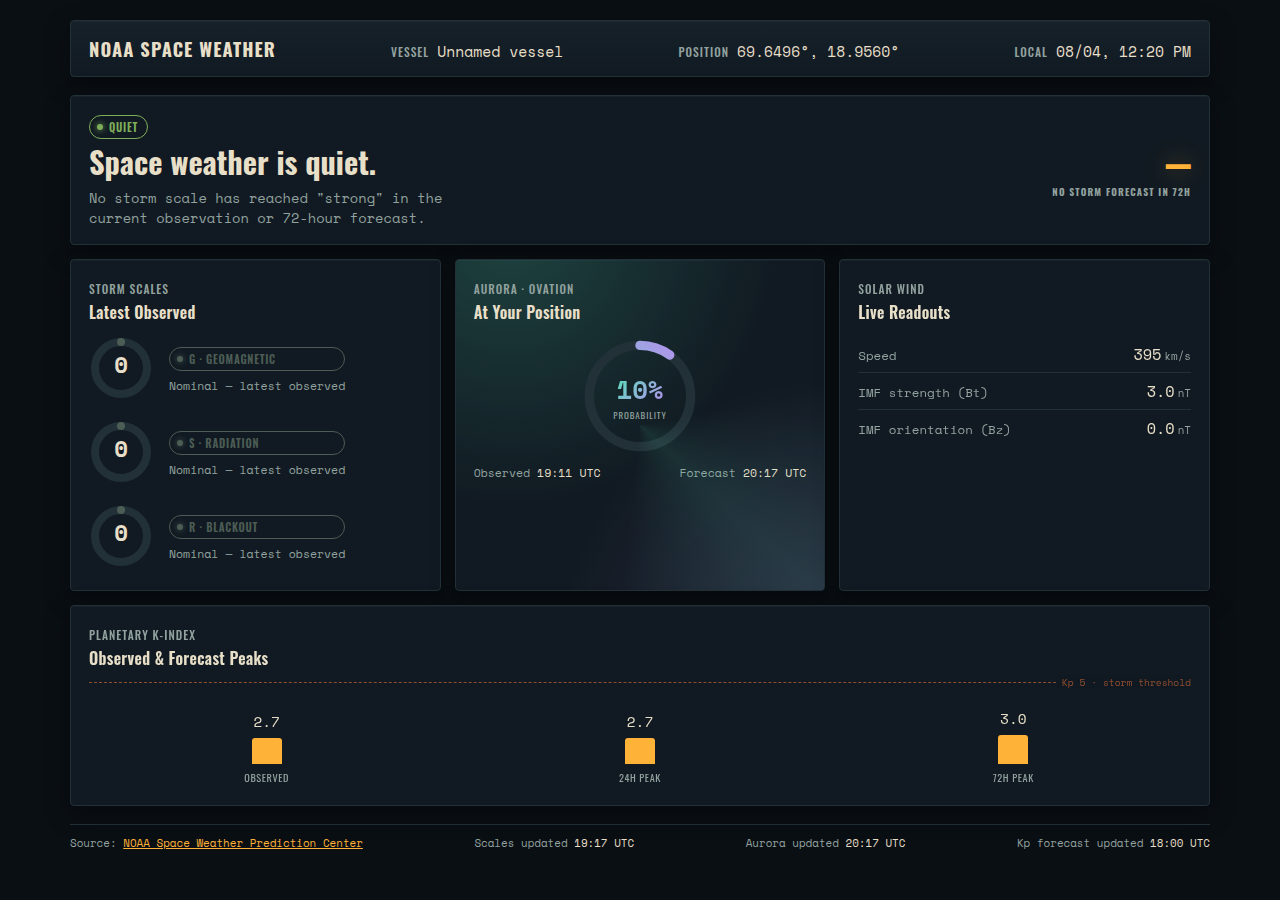
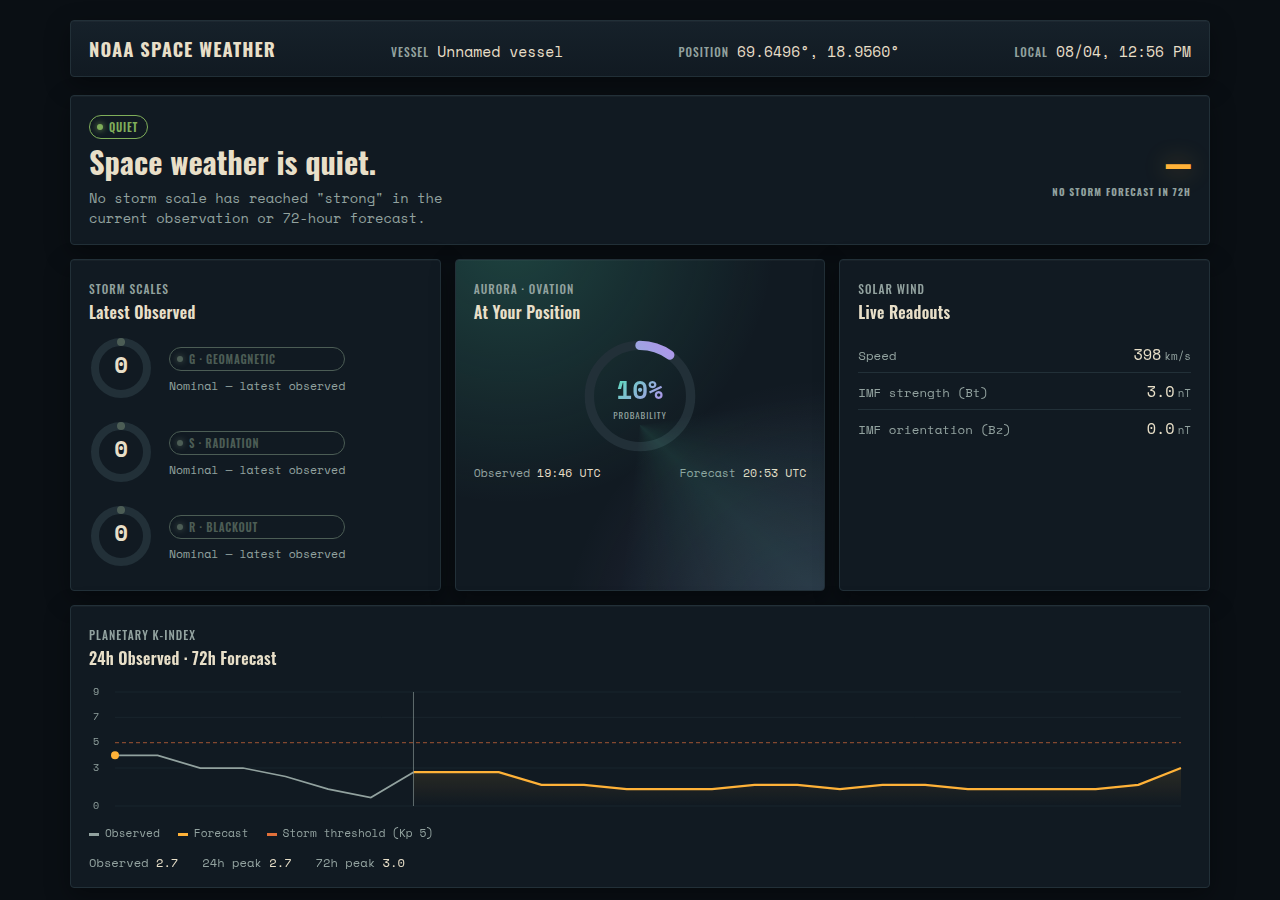
Draw a real Kp timeline in the webapp, and add NOAA explainer links
Replaces the three-bar peak comparison with a canvas timeline drawn from the
new forecast.series path: observed in grey, forecast in amber, the Kp 5 storm
threshold marked, the 72h peak highlighted. Falls back to the bars if the
series hasn't arrived yet (a fresh install, or an older plugin version before
this path existed).

Also adds a 'Learn more' links row: NOAA's own explanations of the G/S/R
scales, the Kp index, the aurora dashboard, and radio/GPS impact pages.

Screenshot updated from a live run against real data.

diff --git a/public/index.html b/public/index.html
@@ -170,6 +170,15 @@
   .kp-bar .lbl { font-family: var(--font-display); font-size: 0.64rem; letter-spacing: 0.06em; text-transform: uppercase; color: var(--text-dim); }
   .kp-threshold { border-top: 1px dashed var(--sev-4); position: relative; margin: 2px 0 10px; opacity: 0.6; }
   .kp-threshold span { position: absolute; right: 0; top: -8px; font-size: 0.6rem; color: var(--sev-4); background: var(--panel); padding-left: 6px; }
+  #kpChart { display: block; width: 100%; height: 132px; }
+  .timeline-legend { display: flex; gap: 18px; margin-top: 10px; flex-wrap: wrap; font-size: 0.7rem; color: var(--text-dim); }
+  .timeline-legend .sw { display: inline-block; width: 10px; height: 3px; margin-right: 6px; vertical-align: middle; }
+  .kp-summary { display: flex; gap: 24px; margin-top: 12px; flex-wrap: wrap; font-size: 0.76rem; color: var(--text-dim); }
+  .kp-summary b { color: var(--text); font-family: var(--font-mono); font-variant-numeric: tabular-nums; font-weight: 400; }
+
+  .learn-more { display: flex; gap: 16px; flex-wrap: wrap; margin-top: 10px; font-size: 0.72rem; }
+  .learn-more a { color: var(--text-dim); text-decoration: none; border-bottom: 1px dotted var(--grid); }
+  .learn-more a:hover { color: var(--amber); border-bottom-color: var(--amber); }
 
   .footstrip {
     margin-top: 18px; display: flex; justify-content: space-between; flex-wrap: wrap; gap: 8px 20px;
@@ -255,11 +264,21 @@
 
     <div class="tile span-12">
       <span class="label">Planetary K-Index</span>
-      <h2>Observed &amp; Forecast Peaks</h2>
+      <h2>24h Observed &middot; 72h Forecast</h2>
       <div id="kpBody">
         <div class="empty-state">Waiting for data&hellip;</div>
       </div>
     </div>
+  </div>
+
+  <div class="learn-more">
+    <span class="label" style="margin-right:2px">Learn more</span>
+    <a href="https://www.spaceweather.gov/noaa-scales-explanation" target="_blank" rel="noopener">G/S/R scales explained</a>
+    <a href="https://www.swpc.noaa.gov/products/planetary-k-index" target="_blank" rel="noopener">Planetary K-index</a>
+    <a href="https://www.spaceweather.gov/communities/aurora-dashboard-experimental" target="_blank" rel="noopener">Aurora dashboard</a>
+    <a href="https://www.spaceweather.gov/communities/radio-communications" target="_blank" rel="noopener">Radio &amp; HF impacts</a>
+    <a href="https://www.spaceweather.gov/communities/global-positioning-system-gps-community-dashboard" target="_blank" rel="noopener">GPS/GNSS impacts</a>
+    <a href="https://www.spaceweather.gov/impacts" target="_blank" rel="noopener">Space weather impacts</a>
   </div>
 
   <div class="footstrip">
@@ -449,36 +468,151 @@
       <div class="readout-row"><span class="n">IMF orientation (Bz)</span><span class="v" style="color:${bzColor}">${bz !== null ? (bz * 1e9).toFixed(1) : '–'}<span class="u">nT</span></span></div>`;
   }
 
+  function drawKpTimeline(canvas, series) {
+    const dpr = window.devicePixelRatio || 1;
+    const cssW = canvas.clientWidth || 900, cssH = 132;
+    canvas.width = cssW * dpr; canvas.height = cssH * dpr;
+    const ctx = canvas.getContext('2d');
+    ctx.scale(dpr, dpr);
+    ctx.clearRect(0, 0, cssW, cssH);
+
+    const styles = getComputedStyle(document.documentElement);
+    const gridColor = styles.getPropertyValue('--grid').trim();
+    const dimColor = styles.getPropertyValue('--text-dim').trim();
+    const amber = styles.getPropertyValue('--amber').trim();
+    const sev5 = styles.getPropertyValue('--sev-5').trim();
+    const sev4 = styles.getPropertyValue('--sev-4').trim();
+
+    const padL = 26, padR = 10, padT = 10, padB = 8;
+    const plotW = cssW - padL - padR, plotH = cssH - padT - padB;
+    const maxKp = 9;
+    const n = series.length;
+    const x = (i) => padL + (n <= 1 ? 0 : (i / (n - 1)) * plotW);
+    const y = (v) => padT + plotH - (Math.min(v, maxKp) / maxKp) * plotH;
+    const nowIndex = Math.max(0, series.findIndex((p) => p.forecast) - 1);
+    const nowI = nowIndex < 0 ? n - 1 : nowIndex;
+
+    [0, 3, 5, 7, 9].forEach((v) => {
+      ctx.beginPath();
+      ctx.moveTo(padL, y(v));
+      ctx.lineTo(cssW - padR, y(v));
+      ctx.strokeStyle = v === 5 ? sev4 : gridColor;
+      ctx.globalAlpha = v === 5 ? 0.55 : 0.5;
+      ctx.lineWidth = v === 5 ? 1.25 : 1;
+      ctx.setLineDash(v === 5 ? [4, 3] : []);
+      ctx.stroke();
+      ctx.setLineDash([]);
+      ctx.globalAlpha = 1;
+      ctx.fillStyle = dimColor;
+      ctx.font = "10px 'Space Mono', monospace";
+      ctx.textBaseline = 'middle';
+      ctx.fillText(String(v), 4, y(v));
+    });
+
+    if (n === 0) return;
+
+    if (nowI < n - 1) {
+      const grad = ctx.createLinearGradient(0, padT, 0, padT + plotH);
+      grad.addColorStop(0, amber + '55');
+      grad.addColorStop(1, amber + '00');
+      ctx.beginPath();
+      ctx.moveTo(x(nowI), y(0));
+      for (let i = nowI; i < n; i++) ctx.lineTo(x(i), y(series[i].kp));
+      ctx.lineTo(x(n - 1), y(0));
+      ctx.closePath();
+      ctx.fillStyle = grad;
+      ctx.fill();
+    }
+
+    ctx.beginPath();
+    for (let i = 0; i <= nowI; i++) {
+      const px = x(i), py = y(series[i].kp);
+      i === 0 ? ctx.moveTo(px, py) : ctx.lineTo(px, py);
+    }
+    ctx.strokeStyle = dimColor;
+    ctx.lineWidth = 1.75;
+    ctx.stroke();
+
+    if (nowI < n - 1) {
+      ctx.beginPath();
+      for (let i = nowI; i < n; i++) {
+        const px = x(i), py = y(series[i].kp);
+        i === nowI ? ctx.moveTo(px, py) : ctx.lineTo(px, py);
+      }
+      ctx.strokeStyle = amber;
+      ctx.lineWidth = 2.25;
+      ctx.stroke();
+    }
+
+    ctx.beginPath();
+    ctx.moveTo(x(nowI), padT);
+    ctx.lineTo(x(nowI), padT + plotH);
+    ctx.strokeStyle = dimColor;
+    ctx.globalAlpha = 0.6;
+    ctx.lineWidth = 1;
+    ctx.stroke();
+    ctx.globalAlpha = 1;
+
+    let peakI = 0;
+    for (let i = 1; i < n; i++) if (series[i].kp > series[peakI].kp) peakI = i;
+    ctx.beginPath();
+    ctx.arc(x(peakI), y(series[peakI].kp), 4, 0, Math.PI * 2);
+    ctx.fillStyle = series[peakI].kp >= 5 ? sev5 : amber;
+    ctx.fill();
+  }
+
   function renderKp(kp) {
     const body = document.getElementById('kpBody');
     const observed = leafValue(kp?.observed);
     const max24h = leafValue(kp?.['forecast.max24h']);
     const max72h = leafValue(kp?.['forecast.max72h']);
+    const series = leafValue(kp?.['forecast.series']);
     if (observed === null && max24h === null && max72h === null) {
       body.innerHTML = '<div class="empty-state">No Kp forecast yet.</div>';
       return;
     }
-    const bars = [
-      ['Observed', observed],
-      ['24h Peak', max24h],
-      ['72h Peak', max72h]
-    ];
-    const maxKp = 9;
-    body.innerHTML = `
-      <div class="kp-threshold"><span>Kp 5 · storm threshold</span></div>
-      <div class="kp-bars">
-        ${bars.map(([label, v]) => {
-          const h = v === null ? 2 : Math.max(4, (v / maxKp) * 88);
-          const color = v === null ? 'var(--grid)' : v >= 5 ? 'var(--sev-4)' : 'var(--amber)';
-          return `<div class="kp-bar">
-            <span class="n">${v === null ? '–' : v.toFixed(1)}</span>
-            <div class="stem" style="height:${h}px;background:${color}"></div>
-            <span class="lbl">${label}</span>
-          </div>`;
-        }).join('')}
-      </div>`;
+    if (Array.isArray(series) && series.length > 0) {
+      body.innerHTML = `
+        <div class="timeline-wrap"><canvas id="kpChart"></canvas></div>
+        <div class="timeline-legend">
+          <span><span class="sw" style="background:var(--text-dim)"></span>Observed</span>
+          <span><span class="sw" style="background:var(--amber)"></span>Forecast</span>
+          <span><span class="sw" style="background:var(--sev-4)"></span>Storm threshold (Kp 5)</span>
+        </div>
+        <div class="kp-summary">
+          <span>Observed <b>${observed !== null ? observed.toFixed(1) : '–'}</b></span>
+          <span>24h peak <b>${max24h !== null ? max24h.toFixed(1) : '–'}</b></span>
+          <span>72h peak <b>${max72h !== null ? max72h.toFixed(1) : '–'}</b></span>
+        </div>`;
+      const canvas = document.getElementById('kpChart');
+      drawKpTimeline(canvas, series);
+      canvas._series = series;
+    } else {
+      // The series path may lag one cycle behind the summary fields on a
+      // fresh install; fall back to the peak comparison rather than nothing.
+      const bars = [['Observed', observed], ['24h Peak', max24h], ['72h Peak', max72h]];
+      const maxKp = 9;
+      body.innerHTML = `
+        <div class="kp-threshold"><span>Kp 5 · storm threshold</span></div>
+        <div class="kp-bars">
+          ${bars.map(([label, v]) => {
+            const h = v === null ? 2 : Math.max(4, (v / maxKp) * 88);
+            const color = v === null ? 'var(--grid)' : v >= 5 ? 'var(--sev-4)' : 'var(--amber)';
+            return `<div class="kp-bar">
+              <span class="n">${v === null ? '–' : v.toFixed(1)}</span>
+              <div class="stem" style="height:${h}px;background:${color}"></div>
+              <span class="lbl">${label}</span>
+            </div>`;
+          }).join('')}
+        </div>`;
+    }
     document.getElementById('tsKp').textContent = fmtTime(leafTime(kp?.observed));
   }
+
+  window.addEventListener('resize', () => {
+    const canvas = document.getElementById('kpChart');
+    if (canvas && canvas._series) drawKpTimeline(canvas, canvas._series);
+  });
 
   async function refresh() {
     document.getElementById('clock').textContent = fmtClock();
@@ -501,7 +635,8 @@
       'forecast.max72h': kpRaw.forecast?.max72h,
       'forecast.maxNoaaScale': kpRaw.forecast?.maxNoaaScale,
       'forecast.nextStormTime': kpRaw.forecast?.nextStormTime,
-      'forecast.nextStormKp': kpRaw.forecast?.nextStormKp
+      'forecast.nextStormKp': kpRaw.forecast?.nextStormKp,
+      'forecast.series': kpRaw.forecast?.series
     } : null;
 
     renderHero(scalesLatest, kp);

diff --git a/README.md b/README.md
@@ -26,7 +26,7 @@ The plugin currently surfaces:
 * The G/S/R storm "scales" for latest observed, prior 24-hour observed maximums, and a 3 day forecast (e.g `environment.noaa.swpc.scales.observations.24_hours_maximums.G`)
 * NOAA SWPC Alerts, Warnings, and Watches as signalk notifications with a configurable threshold (default 3, "strong")
 * The [solar wind](https://en.wikipedia.org/wiki/Solar_wind) speed, along with [IMF](https://en.wikipedia.org/wiki/Interplanetary_magnetic_field) strength (Bt) and direction (Bz)
-* The [Kp index](https://en.wikipedia.org/wiki/K-index) — most recent observed value, plus a forecast summary under `environment.noaa.swpc.kp.forecast`: the peak Kp expected in the next 24 and 72 hours, and the time the next storm-level interval (Kp 5 / G1 or above) begins
+* The [Kp index](https://en.wikipedia.org/wiki/K-index) — most recent observed value, a forecast summary under `environment.noaa.swpc.kp.forecast` (the peak Kp expected in the next 24 and 72 hours, and the time the next storm-level interval begins), and the full 3-hourly series (`forecast.series`) from 24h in the past to 72h ahead for plotting a timeline
 * Aurora probability at the vessel's own position (`environment.noaa.swpc.aurora.probability`), from NOAA's OVATION model — off by default, since the payload is roughly 900 KB per fetch
 
 NOAA explains their "scales" and effects for geomagnetic storms ("G"), solar radiation storms ("S"), and radio blackouts ("R") here: <https://www.spaceweather.gov/noaa-scales-explanation>

diff --git a/CHANGELOG.md b/CHANGELOG.md
@@ -5,6 +5,22 @@ All notable changes to this project are documented here.
 The format is based on [Keep a Changelog](https://keepachangelog.com/en/1.1.0/),
 and this project adheres to [Semantic Versioning](https://semver.org/spec/v2.0.0.html).
 
+## [Unreleased]
+
+### Added
+
+- **`environment.noaa.swpc.kp.forecast.series`**: the 3-hourly Kp points from
+  24 hours in the past to 72 hours ahead, as `{time, kp, forecast}`. This is
+  the same NOAA feed already fetched for the summary paths — no new network
+  request, just no longer discarding the parsed rows.
+- The webapp's Kp tile now draws a real timeline from that series (observed
+  in grey, forecast in amber, the Kp 5 storm threshold marked, the 72h peak
+  highlighted) instead of a three-bar peak comparison. Falls back to the bars
+  if the series hasn't arrived yet.
+- A "Learn more" links row in the webapp: NOAA's own explanations of the
+  G/S/R scales, the Kp index, the aurora dashboard, and radio/GPS impact
+  pages.
+
 ## [0.4.0] - 2026-08-04
 
 ### Added
